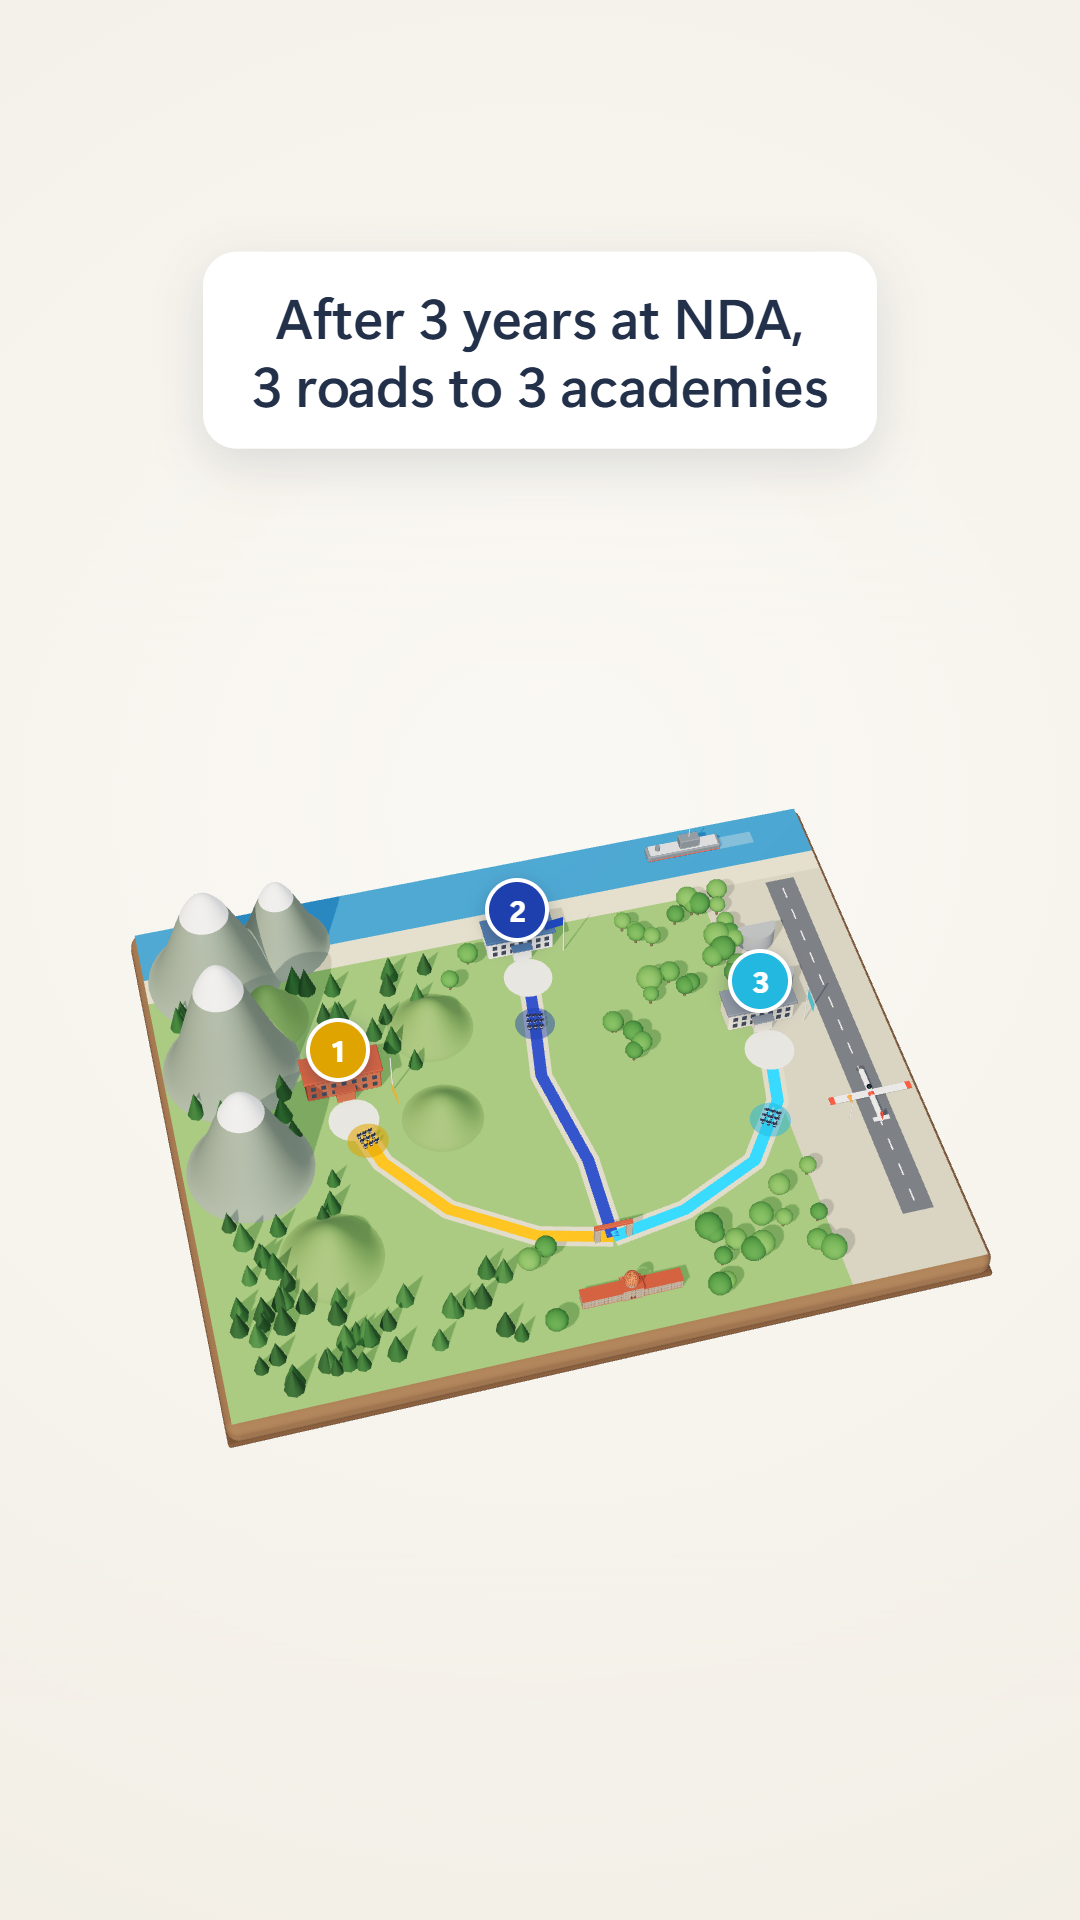
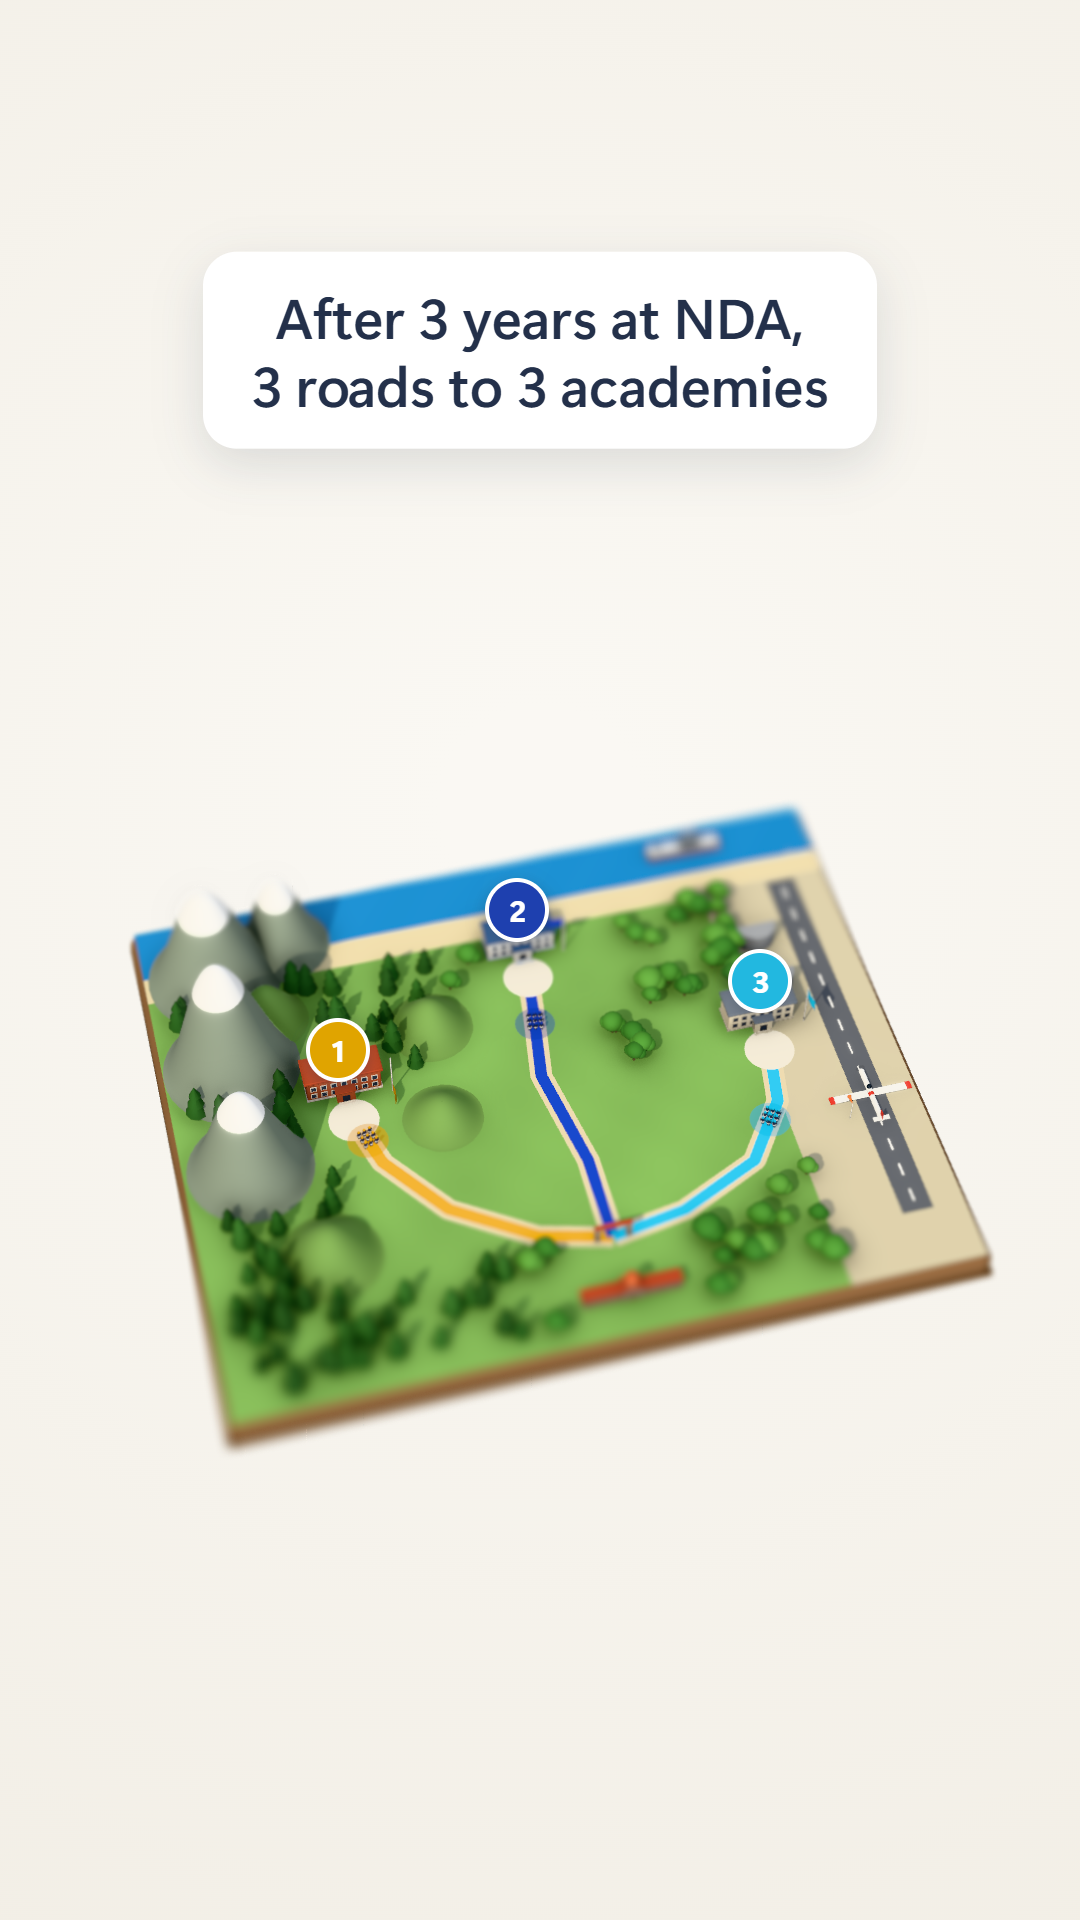
feat(remotion): NDA Life #2 in the miniature look

Changed region(s): [[0.1222, 0.4062, 0.9167, 0.7812]]

diff --git a/remotion/src/Life002.tsx b/remotion/src/Life002.tsx
@@ -14,11 +14,12 @@ import { WHITE as P, SOFT_UI, tint } from './lib/palette.ts';
 import { captionAt, prog } from './lib/motion.ts';
 import {
   DURATION, COVER_T, END_AT, LABEL, HEADER, ROADS, VISITS, SLAB, NDA, GATE, SEA, BEACH, RUNWAY, GRASS, PEAKS, HILLS, PILL, PILLS,
-  CAPTIONS, END_LINES, END_PANEL, COVER_CAPTION, BAND, TAG, FIG, PLANE, cameraAt, drawnAt, cadetsAt, flagAt3, FLAG, FORECOURT, forecourtAt, UNIFORM, puffAt, shipAt, planeAt, SHIP, HORN_AT, ROLL_AT,
+  CAPTIONS, END_LINES, END_PANEL, COVER_CAPTION, BAND, TAG, FIG, PLANE, cameraAt, drawnAt, cadetsAt, focusAt, flagAt3, FLAG, FORECOURT, forecourtAt, UNIFORM, puffAt, shipAt, planeAt, SHIP, HORN_AT, ROLL_AT,
   tagAt, pillAt, dotState, skyAt, WHEELS_UP, type V3,
 } from './lib/life002.ts';
 import { Board, Caption, Theme, TourHeader, useFonts } from './board.tsx';
 import { RoundBox, softEdges } from './shapes.tsx';
+import { ClothFlag, GrassField, MiniatureFinish, Sea, Tree } from './miniature.tsx';
 import { COL, rng, SudanBlock } from './sudanBlock.tsx';
 
 const C = { soil: '#7b5a3e', soilDark: '#5e432d', grass: GRASS, hill: '#6f9550', peak: '#7d8a7a', snow: '#fbfbf8', road: '#d8c9a6',
@@ -93,7 +94,7 @@ function nearRoad(x: number, z: number, r: number) {
   }));
 }
 const inBox = (x: number, z: number, cx: number, cz: number, hw: number, hd: number) => Math.abs(x - cx) < hw && Math.abs(z - cz) < hd;
-function Trees() {
+function Trees({ t }: { t: number }) {
   const trees = useMemo(() => {
     // no tree between a close camera and what it looks at (stills: one hid the Air Force column, others crowded the shots)
     const sights = [...VISITS.flatMap(v => [v.settled + 0.5, v.arrive + 1.2]), WHEELS_UP + 0.5].map(s => cameraAt(s)).map(c => [c.position, c.target]);
@@ -116,24 +117,27 @@ function Trees() {
     }
     return out;
   }, []);
-  return <>{trees.map((tr, i) => tr.pine
-    ? <mesh key={i} position={[tr.p[0], tr.s * 1.6, tr.p[2]]} castShadow receiveShadow><coneGeometry args={[tr.s, tr.s * 3.4, 8]} /><meshStandardMaterial color={tr.c} roughness={0.9} /></mesh>
-    : <group key={i} position={tr.p}>
-      <mesh position={[0, 1.6, 0]}><cylinderGeometry args={[0.35, 0.45, 3.2, 6]} /><meshStandardMaterial color={C.trunk} roughness={1} /></mesh>
-      <mesh position={[0, 3.2 + tr.s * 0.7, 0]} scale={[tr.s, tr.s * 0.9, tr.s]} castShadow receiveShadow><sphereGeometry args={[1, 12, 9]} /><meshStandardMaterial color={tr.c} roughness={0.9} /></mesh>
-    </group>)}</>;
+  return <>{trees.map((tr, i) => <Tree key={i} {...tr} seed={i} t={t} />)}</>;
 }
 /** A generic academy block: walls, rows of windows, a roof, a porch facing its road, and a mast with a plain flag in the
  *  road's colour. Not a copy of any real building. */
 function Academy({ k, t }: { k: number; t: number }) {
   const rd = ROADS[k], [w, h, d] = rd.size, wall = [C.brick, C.white, C.wall][k], roof = [COL.roof, '#3b5d8a', '#6d7682'][k];
+  const frame = ['#efe2cf', '#c3ccd8', '#c9c0ac'][k];
   const glow = prog(t, VISITS[k].arrive, 0.6);
   return <group position={rd.at}>
     <mesh position={[0, h / 2, 0]} castShadow receiveShadow><RoundBox size={[w, h, d]} radius={0.6} /><meshStandardMaterial color={wall} roughness={0.85} /></mesh>
     <mesh position={[0, h + 0.6, 0]} castShadow><RoundBox size={[w + 1.4, 1.2, d + 1.4]} radius={0.4} /><meshStandardMaterial color={roof} roughness={0.8} /></mesh>
     {[h * 0.3, h * 0.68].flatMap(y => Array.from({ length: 7 }, (_, i) => <mesh key={`${y}-${i}`} position={[-w / 2 + 2.2 + i * ((w - 4.4) / 6), y, d / 2 + 0.05]}>
       <boxGeometry args={[1.5, 1.7, 0.3]} /><meshStandardMaterial color={C.window} emissive="#ffc77a" emissiveIntensity={0.6 * glow} roughness={0.4} /></mesh>))}
+    {/* the miniature look: a plinth, framed windows, a door and steps (founder 2026-11-04: keep improving quality) */}
+    <mesh position={[0, 0.45, 0]} receiveShadow><RoundBox size={[w + 0.5, 0.9, d + 0.5]} radius={0.2} /><meshStandardMaterial color={frame} roughness={0.9} /></mesh>
+    {[h * 0.3, h * 0.68].flatMap(y => Array.from({ length: 7 }, (_, i) => <mesh key={`f${y}-${i}`} position={[-w / 2 + 2.2 + i * ((w - 4.4) / 6), y, d / 2 + 0.02]}>
+      <boxGeometry args={[2.0, 2.2, 0.2]} /><meshStandardMaterial color={frame} roughness={0.8} /></mesh>))}
     <mesh position={[0, 2.4, d / 2 + 1.4]} castShadow><RoundBox size={[6, 4.8, 2.8]} radius={0.3} /><meshStandardMaterial color={wall} roughness={0.85} /></mesh>
+    <mesh position={[0, 1.7, d / 2 + 2.82]}><boxGeometry args={[2.4, 3.2, 0.12]} /><meshStandardMaterial color="#39404c" roughness={0.6} /></mesh>
+    {[[6.4, 0.18, 1.3], [5.2, 0.5, 0.65]].map(([sw, y, dz], i) => <mesh key={`s${i}`} position={[0, y, d / 2 + 2.8 + dz]} castShadow receiveShadow>
+      <boxGeometry args={[sw, 0.36, 1.3 - 0.65 * i]} /><meshStandardMaterial color={frame} roughness={0.9} /></mesh>)}
     <mesh position={[0, 5.0, d / 2 + 1.4]}><RoundBox size={[6.8, 0.5, 3.4]} radius={0.2} /><meshStandardMaterial color={roof} roughness={0.8} /></mesh>
   </group>;
 }
@@ -142,7 +146,7 @@ function Flag({ k, t }: { k: number; t: number }) {
   const { mast, y } = flagAt3(k, t), z = FLAG.alongZ[k];
   return <group position={mast} rotation={[0, z ? -Math.PI / 2 : FLAG.sign[k] < 0 ? Math.PI : 0, 0]}>
     <mesh position={[0, FLAG.mast / 2, 0]} castShadow><cylinderGeometry args={[0.2, 0.26, FLAG.mast, 8]} /><meshStandardMaterial color="#e6e3dc" metalness={0.4} roughness={0.4} /></mesh>
-    <mesh position={[FLAG.w / 2 + 0.1, y, 0]} rotation={[0, 0.15 * Math.sin(2.4 * t + k), 0]}><boxGeometry args={[FLAG.w, FLAG.h, 0.1]} /><meshStandardMaterial color={ROADS[k].color} roughness={0.7} side={THREE.DoubleSide} /></mesh>
+    <group position={[0, y, 0]}><ClothFlag w={FLAG.w} h={FLAG.h} color={ROADS[k].color} t={t + k} /></group>
   </group>;
 }
 function Gate() {
@@ -174,10 +178,10 @@ function Diorama({ t }: { t: number }) {
   return <group>
     <mesh position={[cx, -SLAB.h / 2 - 0.05, cz]} castShadow receiveShadow><RoundBox size={[W, SLAB.h, D]} radius={4} /><meshStandardMaterial color={C.soil} roughness={1} /></mesh>
     <mesh position={[cx, -SLAB.h + 1, cz]}><RoundBox size={[W + 0.6, 2, D + 0.6]} radius={1} /><meshStandardMaterial color={C.soilDark} roughness={1} /></mesh>
-    <mesh rotation={[-Math.PI / 2, 0, 0]} position={[cx, 0.02, cz]} receiveShadow><planeGeometry args={[W - 4, D - 4]} /><meshStandardMaterial color={C.grass} roughness={1} /></mesh>
+    <GrassField x0={SLAB.x0 + 2} x1={SLAB.x1 - 2} z0={SLAB.z0 + 2} z1={SLAB.z1 - 2} y={0.02} color={C.grass} />
     {/* the sea along the back, its beach; the airfield's plain on the right */}
     <mesh rotation={[-Math.PI / 2, 0, 0]} position={[cx, 0.06, (BEACH.z0 + BEACH.z1) / 2]} receiveShadow><planeGeometry args={[W - 4, BEACH.z1 - BEACH.z0 + 4]} /><meshStandardMaterial color={C.sand} roughness={1} /></mesh>
-    <mesh rotation={[-Math.PI / 2, 0, 0]} position={[cx, 0.14, (SEA.z0 + 2 + SEA.z1) / 2]} receiveShadow><planeGeometry args={[W - 4, SEA.z1 - SEA.z0 - 2]} /><meshStandardMaterial color={C.sea} roughness={0.12} metalness={0.25} /></mesh>
+    <Sea x0={SLAB.x0 + 2} x1={SLAB.x1 - 2} z0={SEA.z0 + 2} z1={SEA.z1} y={0.3} color={C.sea} t={t} />
     <mesh rotation={[-Math.PI / 2, 0, 0]} position={[(RUNWAY.x - 28 + SLAB.x1 - 2) / 2, 0.05, (BEACH.z1 + SLAB.z1 - 2) / 2]} receiveShadow>
       <planeGeometry args={[SLAB.x1 - 2 - (RUNWAY.x - 28), SLAB.z1 - 2 - BEACH.z1]} /><meshStandardMaterial color={C.plain} roughness={1} /></mesh>
     {roads.map((g, i) => <mesh key={i} geometry={g} position={[0, 0.2, 0]} receiveShadow><meshStandardMaterial color={C.road} roughness={1} /></mesh>)}
@@ -187,7 +191,7 @@ function Diorama({ t }: { t: number }) {
     })}
     {PEAKS.map((p, i) => <Mound key={`p${i}`} {...p} color={C.peak} snow={0.35} />)}
     {HILLS.map((h, i) => <Mound key={`h${i}`} {...h} color={C.hill} />)}
-    <Trees />
+    <Trees t={t} />
     <Runway t={t} />
     <group position={[NDA.x, 0, NDA.z]} rotation={[0, Math.PI, 0]} scale={NDA.scale}><SudanBlock glow={0.15} /></group>
     <Gate />
@@ -217,6 +221,8 @@ function Ship({ t }: { t: number }) {
 }
 /** A small prop trainer: white with a red stripe, a dark canopy, a spinning propeller disc. */
 function Plane({ t }: { t: number }) {
+  // gone once the end card is up: by then it is a blurred speck off the model's edge (miniature look, 2026-11-04)
+  if (t >= END_AT) return null;
   const p = planeAt(t), L = PLANE.len, span = PLANE.span;
   return <group position={[p.pos[0], p.pos[1] + 1.6, p.pos[2]]} rotation={[p.pitch, Math.PI, 0]}>
     <mesh rotation={[Math.PI / 2, 0, 0]} castShadow><capsuleGeometry args={[0.9, L - 2, 6, 12]} /><meshStandardMaterial color={C.plane} roughness={0.4} /></mesh>
@@ -239,7 +245,10 @@ function Cadets({ t }: { t: number }) {
     return { torso: mk(new THREE.CapsuleGeometry(0.42 * FIG, 0.75 * FIG, 4, 10), C.navy), legs: mk(new THREE.CapsuleGeometry(0.17 * FIG, 0.8 * FIG, 4, 8), C.navy, 2 * max),
       arms: mk(new THREE.CapsuleGeometry(0.13 * FIG, 0.7 * FIG, 4, 8), C.navy, 2 * max),
       belt: mk(new THREE.CylinderGeometry(0.47 * FIG, 0.47 * FIG, 0.28 * FIG, 12), C.belt), head: mk(new THREE.SphereGeometry(0.3 * FIG, 10, 8), C.skin),
-      cap: mk(new THREE.CylinderGeometry(0.37 * FIG, 0.37 * FIG, 0.27 * FIG, 10), '#ffffff') };
+      cap: mk(new THREE.CylinderGeometry(0.37 * FIG, 0.37 * FIG, 0.27 * FIG, 10), '#ffffff'),
+      // the miniature look: a cap brim, hands, boots (founder 2026-11-04)
+      brim: mk(new THREE.CylinderGeometry(0.44 * FIG, 0.44 * FIG, 0.05 * FIG, 14), '#1a2133'), hands: mk(new THREE.SphereGeometry(0.12 * FIG, 8, 6), C.skin, 2 * max),
+      boots: mk(new THREE.BoxGeometry(0.3 * FIG, 0.2 * FIG, 0.44 * FIG), '#14171e', 2 * max) };
   }, []);
   // each column's caps in its road's colour: a colour code, not a uniform (panel pass 1: all navy read as the Navy)
   useMemo(() => { const c = new THREE.Color(); for (let i = 0; i < max; i++) parts.cap.setColorAt(i, c.set(ROADS[Math.floor(i / 9)].color)); parts.cap.instanceColor!.needsUpdate = true; }, [parts]);
@@ -255,10 +264,12 @@ function Cadets({ t }: { t: number }) {
     [-1, 1].forEach((side, k) => { const a = 0.45 * side * f.step; put(parts.legs, 2 * i + k, f, side * 0.2 * FIG, hip - 0.5 * FIG * Math.cos(a), 0.5 * FIG * Math.sin(a), a); });
     [-1, 1].forEach((side, k) => { const L = 0.45 * FIG, b = -0.5 * side * f.step; put(parts.arms, 2 * i + k, f, side * 0.58 * FIG, hip + 1.0 * FIG - L * Math.cos(b), L * Math.sin(b), b); });
     put(parts.torso, i, f, 0, hip + 0.55 * FIG, 0); put(parts.belt, i, f, 0, hip + 0.2 * FIG, 0);
-    put(parts.head, i, f, 0, hip + 1.38 * FIG, 0); put(parts.cap, i, f, 0, hip + 1.66 * FIG, 0);
+    put(parts.head, i, f, 0, hip + 1.38 * FIG, 0); put(parts.cap, i, f, 0, hip + 1.66 * FIG, 0); put(parts.brim, i, f, 0, hip + 1.54 * FIG, 0);
+    [-1, 1].forEach((side, k) => { const a = 0.45 * side * f.step; put(parts.boots, 2 * i + k, f, side * 0.2 * FIG, hip - 1.02 * FIG * Math.cos(a), 0.08 * FIG - 0.07 * FIG * Math.sin(a)); });
+    [-1, 1].forEach((side, k) => { const b = -0.5 * side * f.step; put(parts.hands, 2 * i + k, f, side * 0.58 * FIG, hip + 1.0 * FIG - 0.95 * FIG * Math.cos(b), -0.03 * FIG * Math.sin(b)); });
   });
-  for (const m of [parts.torso, parts.belt, parts.head, parts.cap]) { m.count = fs.length; m.instanceMatrix.needsUpdate = true; }
-  for (const m of [parts.legs, parts.arms]) { m.count = 2 * fs.length; m.instanceMatrix.needsUpdate = true; }
+  for (const m of [parts.torso, parts.belt, parts.head, parts.cap, parts.brim]) { m.count = fs.length; m.instanceMatrix.needsUpdate = true; }
+  for (const m of [parts.legs, parts.arms, parts.hands, parts.boots]) { m.count = 2 * fs.length; m.instanceMatrix.needsUpdate = true; }
   return <>{Object.values(parts).map((m, i) => <primitive key={i} object={m} />)}</>;
 }
 
@@ -283,6 +294,7 @@ function Scene({ t }: { t: number }) {
     <Ship t={t} />
     <Plane t={t} />
     <Cadets t={t} />
+    <MiniatureFinish {...focusAt(t)} />
   </>;
 }
 
@@ -323,13 +335,6 @@ function EndPanel({ t }: { t: number }) {
     })}
   </>;
 }
-/** Tilt-shift: the top and bottom of the picture soften, so the diorama reads as a model on a table. */
-function TiltShift() {
-  const band = (top: number, dir: 'to bottom' | 'to top') => <div style={{ position: 'absolute', left: 0, top, width: BAND.width, height: 200, backdropFilter: 'blur(5px)',
-    WebkitMaskImage: `linear-gradient(${dir}, #000, transparent)`, maskImage: `linear-gradient(${dir}, #000, transparent)` }} />;
-  return <>{band(BAND.top, 'to bottom')}{band(BAND.top + BAND.height - 200, 'to top')}</>;
-}
-
 export function Life002({ cover = false }: { cover?: boolean }) {
   useFonts();
   const frame = useCurrentFrame(), { fps } = useVideoConfig();
@@ -341,11 +346,10 @@ export function Life002({ cover = false }: { cover?: boolean }) {
         {!cover && <TourHeader t={t} label={LABEL} lines={HEADER} states={ROADS.map((_, i) => dotState(i, t))} starts={PILLS.map(p => p.t0)} colors={ROADS.map(r => r.color)} />}
         <div style={{ position: 'absolute', left: 0, top: BAND.top, width: BAND.width, height: BAND.height, ...softEdges({ top: 0.1, bottom: 0.1 }) }}>
           {sky > 0 && <div style={{ position: 'absolute', inset: 0, opacity: sky, background: 'linear-gradient(to bottom, #4f8fd0, #a9cdee 65%, #d9e9f6)' }} />}
-          <ThreeCanvas width={BAND.width} height={BAND.height} shadows gl={{ antialias: true, alpha: true }}>
+          <ThreeCanvas width={BAND.width} height={BAND.height} shadows gl={{ antialias: true, alpha: true, premultipliedAlpha: false }}>
             <Scene t={t} />
           </ThreeCanvas>
         </div>
-        <TiltShift />
         <Tags t={t} />
         {!cover && <Pill t={t} />}
         {cover

diff --git a/remotion/src/lib/life002.ts b/remotion/src/lib/life002.ts
@@ -225,6 +225,11 @@ export function project(p: V3, cam: Camera) {
 
 /** A blue sky behind the picture only while the camera is low enough to see past the diorama's edge (the peaks, the
  *  take-off): a white plane and snow on the cream board would read as cut-outs (Defence #2's panel). */
+/** The miniature look's focus (src/miniature.tsx): the band runs through what the camera looks at. */
+export function focusAt(t: number) {
+  const c = cameraAt(t), p = project(c.target, c);
+  return { focusY: 1 - (p.y - BAND.top) / BAND.height, distance: Math.hypot(...(c.position.map((v, i) => v - c.target[i]) as V3)) };
+}
 export const skyAt = (t: number) => { const el = tween(t, CAM.start, CAM.keys)[4]; return Math.min(1, Math.max(0, (18 - el) / 4)); };
 
 // ---- tags over the academies in the opening ---------------------------------------------------------------------------
